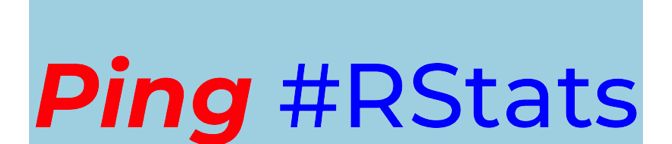
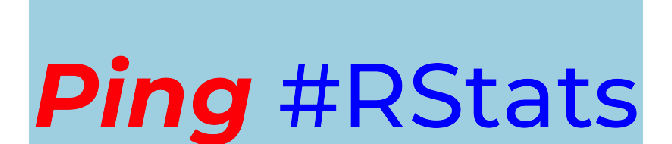
render bitmap fonts to nativeRaster

diff --git a/README.md b/README.md
@@ -49,7 +49,7 @@ install.packages(c('textshaping', 'ragg'))
 remotes::install_github('coolbutuseless/naratext')
 ```
 
-## Example
+## Example - full font rendering
 
 ``` r
 library(grid)
@@ -75,7 +75,23 @@ class(txt)
     #> [1] "nativeRaster"
 
 ``` r
-grid.raster(txt)
+grid.raster(txt, interpolate = FALSE)
 ```
 
 <img src="man/figures/README-example-1.png" width="100%" />
+
+## Example - Bitmap font rendering
+
+``` r
+library(grid)
+library(nara)
+library(naratext)
+
+font_file <- system.file("fonts/spleen/spleen-8x16.hex.gz", package = "bittermelon") 
+font <- bittermelon::read_hex(font_file)
+txt <- nr_text_bitmap("Ping #RStats", font = font, fill = 'lightblue')
+grid::grid.newpage()
+grid::grid.raster(txt, interpolate = FALSE)
+```
+
+<img src="man/figures/README-unnamed-chunk-2-1.png" width="100%" />

diff --git a/NEWS.md b/NEWS.md
@@ -1,3 +1,8 @@
+
+# naratext 0.1.0.9000
+
+* Bitmap font rendering with the help of `{bittermelon}`
+
 # naratext 0.1.0
 
 * Initial release
